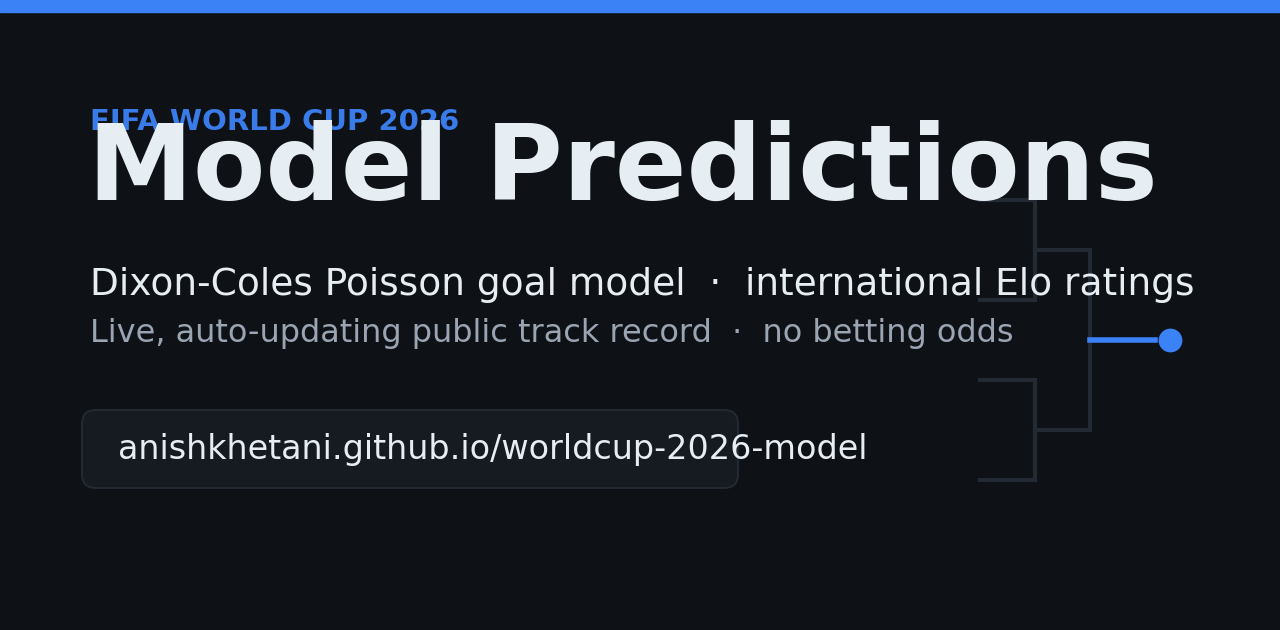
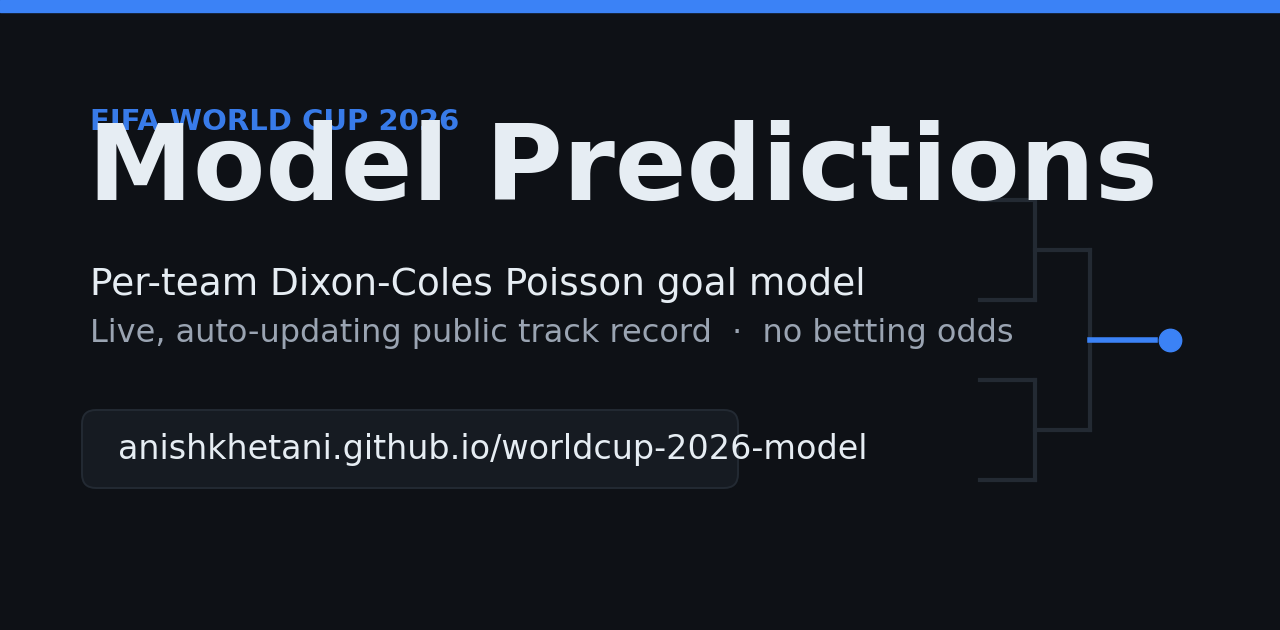
SEO refresh: drop stale Elo framing after the per-team Dixon-Coles rewrite (README opener, social-preview subtitle, wc_config docstring)

Changed region(s): [[0.0625, 0.4222, 0.9375, 0.4825]]

diff --git a/src/wc_config.py b/src/wc_config.py
@@ -1,12 +1,13 @@
 """World Cup 2026 data-pipeline configuration.
 
-The model is trained purely on match results and international ratings -- no betting
-odds. Two free, public-domain (CC0) GitHub sources:
-  1. FIFA-World-Cup-2026-Dataset (updated daily) -- relational current-tournament
+The model is trained purely on match results -- no betting odds. Free, public-domain
+data sources:
+  1. FIFA-World-Cup-2026-Dataset (CC0, updated daily) -- relational current-tournament
      stats, mirrored into data/raw/wc2026/ (see wc_fetch.py).
-  2. martj42/international_results (1872-present) -- all international matches, used
-     for the rolling-Elo strength and the history-fit coefficients (see wc_intl_elo.py),
-     mirrored into data/raw/intl/.
+  2. martj42/international_results (CC0, 1872-present) -- all international matches, the
+     per-team Dixon-Coles training pool (see wc_train.py), mirrored into data/raw/intl/.
+  3. jfjelstul/worldcup (CC-BY-SA 4.0) -- Fjelstul WC DB, for the knockout-conversion
+     calibration (see wc_knockout.py), mirrored into data/raw/fjelstul/.
 """
 from __future__ import annotations
 

diff --git a/src/make_social_preview.py b/src/make_social_preview.py
@@ -52,7 +52,7 @@ ax.text(90, 500, "FIFA WORLD CUP 2026", color=ACCENT, fontsize=21,
 ax.text(88, 430, "Model Predictions", color=INK, fontsize=76,
         fontweight="bold", family="DejaVu Sans")
 # subtitle
-ax.text(90, 335, "Dixon-Coles Poisson goal model  ·  international Elo ratings",
+ax.text(90, 335, "Per-team Dixon-Coles Poisson goal model",
         color=INK, fontsize=27, family="DejaVu Sans")
 ax.text(90, 288, "Live, auto-updating public track record  ·  no betting odds",
         color=MUTED, fontsize=23, family="DejaVu Sans")

diff --git a/README.md b/README.md
@@ -1,10 +1,10 @@
 # World Cup 2026 — Model Predictions
 
-**A Dixon-Coles Poisson goal model, with team strength from a rolling international Elo
-rating, predicts the remaining World Cup 2026 knockout results** — and keeps a public
-track record against what actually happens. It re-runs itself before every matchday —
-pulling fresh data, re-predicting the upcoming fixtures, and updating the scoreboard
-automatically.
+**A per-team Dixon-Coles Poisson goal model — each team fit with its own attack and
+defence rating on international match history — predicts the remaining World Cup 2026
+knockout results**, and keeps a public track record against what actually happens. It
+re-runs itself before every matchday — pulling fresh data, re-predicting the upcoming
+fixtures, and updating the scoreboard automatically.
 
 🔗 **Live site:** <https://anishkhetani.github.io/worldcup-2026-model/>
 